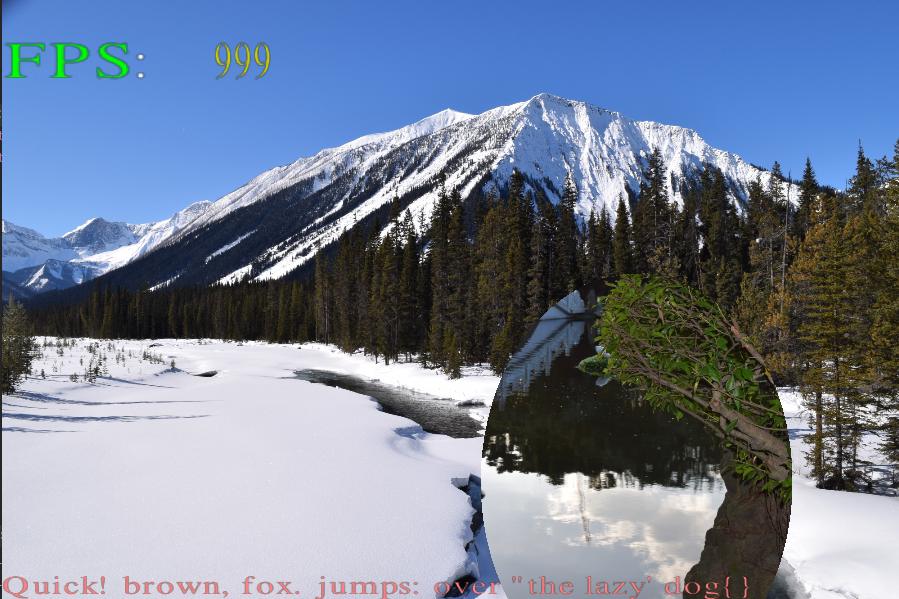
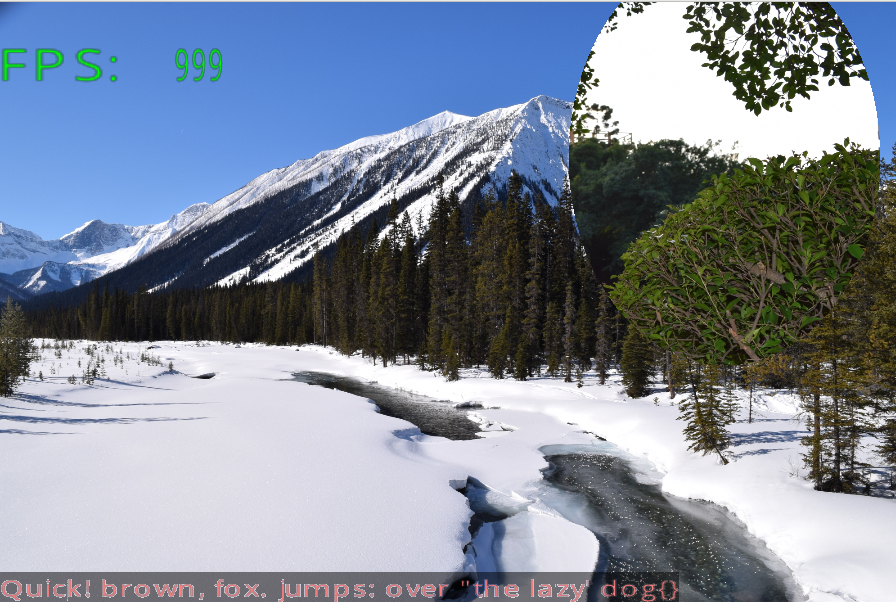
Font changes
Remove multiple colors per font string and only allow a single
foreground color.  However, also add in the ability to define a
background color.  If background color is set to all 0s, then
no background color is shown and the background appears completely
transparent.

diff --git a/globe/globe_font.cpp b/globe/globe_font.cpp
@@ -335,8 +335,8 @@ bool GlobeFont::LoadIntoRenderPass(VkRenderPass render_pass, float viewport_widt
     VkVertexInputBindingDescription vertex_input_binding_description = {};
     vertex_input_binding_description.binding = 0;
     vertex_input_binding_description.inputRate = VK_VERTEX_INPUT_RATE_VERTEX;
-    vertex_input_binding_description.stride = sizeof(float) * 12;
-    VkVertexInputAttributeDescription vertex_input_attribute_description[3];
+    vertex_input_binding_description.stride = sizeof(float) * 16;
+    VkVertexInputAttributeDescription vertex_input_attribute_description[4];
     vertex_input_attribute_description[0] = {};
     vertex_input_attribute_description[0].binding = 0;
     vertex_input_attribute_description[0].location = 0;
@@ -352,13 +352,18 @@ bool GlobeFont::LoadIntoRenderPass(VkRenderPass render_pass, float viewport_widt
     vertex_input_attribute_description[2].location = 2;
     vertex_input_attribute_description[2].format = VK_FORMAT_R32G32B32A32_SFLOAT;
     vertex_input_attribute_description[2].offset = sizeof(float) * 8;
+    vertex_input_attribute_description[3] = {};
+    vertex_input_attribute_description[3].binding = 0;
+    vertex_input_attribute_description[3].location = 3;
+    vertex_input_attribute_description[3].format = VK_FORMAT_R32G32B32A32_SFLOAT;
+    vertex_input_attribute_description[3].offset = sizeof(float) * 12;
     VkPipelineVertexInputStateCreateInfo pipline_vert_input_state_create_info = {};
     pipline_vert_input_state_create_info.sType = VK_STRUCTURE_TYPE_PIPELINE_VERTEX_INPUT_STATE_CREATE_INFO;
     pipline_vert_input_state_create_info.pNext = NULL;
     pipline_vert_input_state_create_info.flags = 0;
     pipline_vert_input_state_create_info.vertexBindingDescriptionCount = 1;
     pipline_vert_input_state_create_info.pVertexBindingDescriptions = &vertex_input_binding_description;
-    pipline_vert_input_state_create_info.vertexAttributeDescriptionCount = 3;
+    pipline_vert_input_state_create_info.vertexAttributeDescriptionCount = 4;
     pipline_vert_input_state_create_info.pVertexAttributeDescriptions = vertex_input_attribute_description;
 
     // Just render a triangle strip
@@ -487,9 +492,9 @@ void GlobeFont::UnloadFromRenderPass() {
     }
 }
 
-int32_t GlobeFont::AddString(const std::string& text_string, std::vector<glm::vec3> colors, glm::vec3 starting_pos,
-                             glm::vec3 text_direction, glm::vec3 text_up, float model_space_char_height,
-                             uint32_t queue_family_index) {
+int32_t GlobeFont::AddString(const std::string& text_string, glm::vec3 fg_color, glm::vec4 bg_color,
+                             glm::vec3 starting_pos, glm::vec3 text_direction, glm::vec3 text_up,
+                             float model_space_char_height, uint32_t queue_family_index) {
     GlobeLogger& logger = GlobeLogger::getInstance();
     int32_t string_index = -1;
     if (text_string.length() > 0 && model_space_char_height > 0) {
@@ -512,13 +517,6 @@ int32_t GlobeFont::AddString(const std::string& text_string, std::vector<glm::ve
             // width and the size scale multiplier.
             float character_width = char_data->width * size_multiplier;
 
-            // By default, assume only one color is passed in, but check in case a user passed
-            // in a color per character
-            glm::vec3 color = colors[0];
-            if (colors.size() >= text_string.size()) {
-                color = colors[char_index];
-            }
-
             // Pre-calculate the other vertex positions for the character quad.
             glm::vec3 top_left_pos = cur_pos + (text_up * model_space_char_height);
             glm::vec3 top_right_pos =
@@ -530,10 +528,14 @@ int32_t GlobeFont::AddString(const std::string& text_string, std::vector<glm::ve
             string_data.vertex_data.push_back(cur_pos[1]);
             string_data.vertex_data.push_back(cur_pos[2]);
             string_data.vertex_data.push_back(1.f);
-            string_data.vertex_data.push_back(color[0]);
-            string_data.vertex_data.push_back(color[1]);
-            string_data.vertex_data.push_back(color[2]);
+            string_data.vertex_data.push_back(fg_color[0]);
+            string_data.vertex_data.push_back(fg_color[1]);
+            string_data.vertex_data.push_back(fg_color[2]);
             string_data.vertex_data.push_back(1.f);
+            string_data.vertex_data.push_back(bg_color[0]);
+            string_data.vertex_data.push_back(bg_color[1]);
+            string_data.vertex_data.push_back(bg_color[2]);
+            string_data.vertex_data.push_back(bg_color[3]);
             string_data.vertex_data.push_back(char_data->left_u);
             string_data.vertex_data.push_back(char_data->bottom_v);
             string_data.vertex_data.push_back(0.f);
@@ -544,10 +546,14 @@ int32_t GlobeFont::AddString(const std::string& text_string, std::vector<glm::ve
             string_data.vertex_data.push_back(bottom_right_pos[1]);
             string_data.vertex_data.push_back(bottom_right_pos[2]);
             string_data.vertex_data.push_back(1.f);
-            string_data.vertex_data.push_back(color[0]);
-            string_data.vertex_data.push_back(color[1]);
-            string_data.vertex_data.push_back(color[2]);
+            string_data.vertex_data.push_back(fg_color[0]);
+            string_data.vertex_data.push_back(fg_color[1]);
+            string_data.vertex_data.push_back(fg_color[2]);
             string_data.vertex_data.push_back(1.f);
+            string_data.vertex_data.push_back(bg_color[0]);
+            string_data.vertex_data.push_back(bg_color[1]);
+            string_data.vertex_data.push_back(bg_color[2]);
+            string_data.vertex_data.push_back(bg_color[3]);
             string_data.vertex_data.push_back(char_data->right_u);
             string_data.vertex_data.push_back(char_data->bottom_v);
             string_data.vertex_data.push_back(0.f);
@@ -558,10 +564,14 @@ int32_t GlobeFont::AddString(const std::string& text_string, std::vector<glm::ve
             string_data.vertex_data.push_back(top_right_pos[1]);
             string_data.vertex_data.push_back(top_right_pos[2]);
             string_data.vertex_data.push_back(1.f);
-            string_data.vertex_data.push_back(color[0]);
-            string_data.vertex_data.push_back(color[1]);
-            string_data.vertex_data.push_back(color[2]);
+            string_data.vertex_data.push_back(fg_color[0]);
+            string_data.vertex_data.push_back(fg_color[1]);
+            string_data.vertex_data.push_back(fg_color[2]);
             string_data.vertex_data.push_back(1.f);
+            string_data.vertex_data.push_back(bg_color[0]);
+            string_data.vertex_data.push_back(bg_color[1]);
+            string_data.vertex_data.push_back(bg_color[2]);
+            string_data.vertex_data.push_back(bg_color[3]);
             string_data.vertex_data.push_back(char_data->right_u);
             string_data.vertex_data.push_back(char_data->top_v);
             string_data.vertex_data.push_back(0.f);
@@ -572,10 +582,14 @@ int32_t GlobeFont::AddString(const std::string& text_string, std::vector<glm::ve
             string_data.vertex_data.push_back(top_left_pos[1]);
             string_data.vertex_data.push_back(top_left_pos[2]);
             string_data.vertex_data.push_back(1.f);
-            string_data.vertex_data.push_back(color[0]);
-            string_data.vertex_data.push_back(color[1]);
-            string_data.vertex_data.push_back(color[2]);
+            string_data.vertex_data.push_back(fg_color[0]);
+            string_data.vertex_data.push_back(fg_color[1]);
+            string_data.vertex_data.push_back(fg_color[2]);
             string_data.vertex_data.push_back(1.f);
+            string_data.vertex_data.push_back(bg_color[0]);
+            string_data.vertex_data.push_back(bg_color[1]);
+            string_data.vertex_data.push_back(bg_color[2]);
+            string_data.vertex_data.push_back(bg_color[3]);
             string_data.vertex_data.push_back(char_data->left_u);
             string_data.vertex_data.push_back(char_data->top_v);
             string_data.vertex_data.push_back(0.f);
@@ -685,15 +699,15 @@ bool GlobeFont::UpdateStringText(int32_t string_index, const std::string& text_s
         uint32_t mapped_index = 0;
         for (uint32_t char_index = 0; char_index < text_string.length(); ++char_index) {
             GlobeFontCharData* char_data = &_char_data[text_string[char_index] - GLOBE_FONT_STARTING_ASCII_CHAR];
-            mapped_data[mapped_index + 8] = char_data->left_u;
-            mapped_data[mapped_index + 9] = char_data->bottom_v;
-            mapped_data[mapped_index + 20] = char_data->right_u;
-            mapped_data[mapped_index + 21] = char_data->bottom_v;
-            mapped_data[mapped_index + 32] = char_data->right_u;
-            mapped_data[mapped_index + 33] = char_data->top_v;
-            mapped_data[mapped_index + 44] = char_data->left_u;
+            mapped_data[mapped_index + 12] = char_data->left_u;
+            mapped_data[mapped_index + 13] = char_data->bottom_v;
+            mapped_data[mapped_index + 28] = char_data->right_u;
+            mapped_data[mapped_index + 29] = char_data->bottom_v;
+            mapped_data[mapped_index + 44] = char_data->right_u;
             mapped_data[mapped_index + 45] = char_data->top_v;
-            mapped_index += 48;
+            mapped_data[mapped_index + 60] = char_data->left_u;
+            mapped_data[mapped_index + 61] = char_data->top_v;
+            mapped_index += 64;
         }
         vkUnmapMemory(_vk_device, string_data.vertex_buffer.vk_memory);
 

diff --git a/samples/08_simple_ttf.cpp b/samples/08_simple_ttf.cpp
@@ -605,38 +605,25 @@ bool SimpleTtfApp::Setup() {
             logger.LogFatalError("Failed loading font into render pass");
             return false;
         }
-        std::vector<glm::vec3> colors;
-        glm::vec3 cur_color = glm::vec3(1.0f, 0.5f, 0.5f);
-        colors.push_back(cur_color);
+
+        // Bottom text in pink with black semi-transparent background
+        glm::vec3 fg_color = glm::vec3(1.0f, 0.5f, 0.5f);
+        glm::vec4 bg_color = glm::vec4(0.0f, 0.0f, 0.0f, 0.5f);
         glm::vec3 starting_pos = glm::vec3(-1.0f, 1.0f, 0.0f);
         glm::vec3 text_direction = glm::vec3(1.0f, 0.0f, 0.0f);
         glm::vec3 text_up = glm::vec3(0.0f, -1.0f, 0.0f);
-        if (0 > _font->AddString("Quick! brown, fox. jumps: over \"the lazy\' dog{}", colors, starting_pos,
+        if (0 > _font->AddString("Quick! brown, fox. jumps: over \"the lazy\' dog{}", fg_color, bg_color, starting_pos,
                                  text_direction, text_up, 0.1f, _globe_submit_mgr->GetGraphicsQueueIndex())) {
             logger.LogFatalError("Failed adding font string");
             return false;
         }
 
+        // FPS in Green with no background
         starting_pos = glm::vec3(-1.0f, -0.7f, 0.0f);
-        colors.clear();
-        // FPS in Green
-        cur_color = glm::vec3(0.0f, 1.0f, 0.0f);
-        colors.push_back(cur_color);
-        colors.push_back(cur_color);
-        colors.push_back(cur_color);
-        // Colon (:) in Yellow
-        cur_color = glm::vec3(1.0f, 1.0f, 1.0f);
-        colors.push_back(cur_color);
-        // Framerate in White
-        cur_color = glm::vec3(0.8f, 0.8f, 0.0f);
-        colors.push_back(cur_color);
-        colors.push_back(cur_color);
-        colors.push_back(cur_color);
-        colors.push_back(cur_color);
-        colors.push_back(cur_color);
-        colors.push_back(cur_color);
+        fg_color = glm::vec3(0.0f, 1.0f, 0.0f);
+        bg_color = glm::vec4(0.0f, 0.0f, 0.0f, 0.0f);
         for (uint32_t fps_str = 0; fps_str < _swapchain_count; ++fps_str) {
-            if (0 > _font->AddString("FPS:      ", colors, starting_pos, text_direction, text_up, 0.2f,
+            if (0 > _font->AddString("FPS:      ", fg_color, bg_color, starting_pos, text_direction, text_up, 0.2f,
                                      _globe_submit_mgr->GetGraphicsQueueIndex())) {
                 logger.LogFatalError("Failed adding font string");
                 return false;

diff --git a/globe/globe_font.hpp b/globe/globe_font.hpp
@@ -58,7 +58,7 @@ class GlobeFont : public GlobeTexture {
 
     bool LoadIntoRenderPass(VkRenderPass render_pass, float viewport_width, float viewport_height);
     void UnloadFromRenderPass();
-    int32_t AddString(const std::string& text_string, std::vector<glm::vec3> colors, glm::vec3 starting_pos,
+    int32_t AddString(const std::string& text_string, glm::vec3 fg_color, glm::vec4 bg_color, glm::vec3 starting_pos,
                       glm::vec3 text_direction, glm::vec3 text_up, float model_space_char_height,
                       uint32_t queue_family_index);
     bool UpdateStringText(int32_t string_index, const std::string& text_string);
